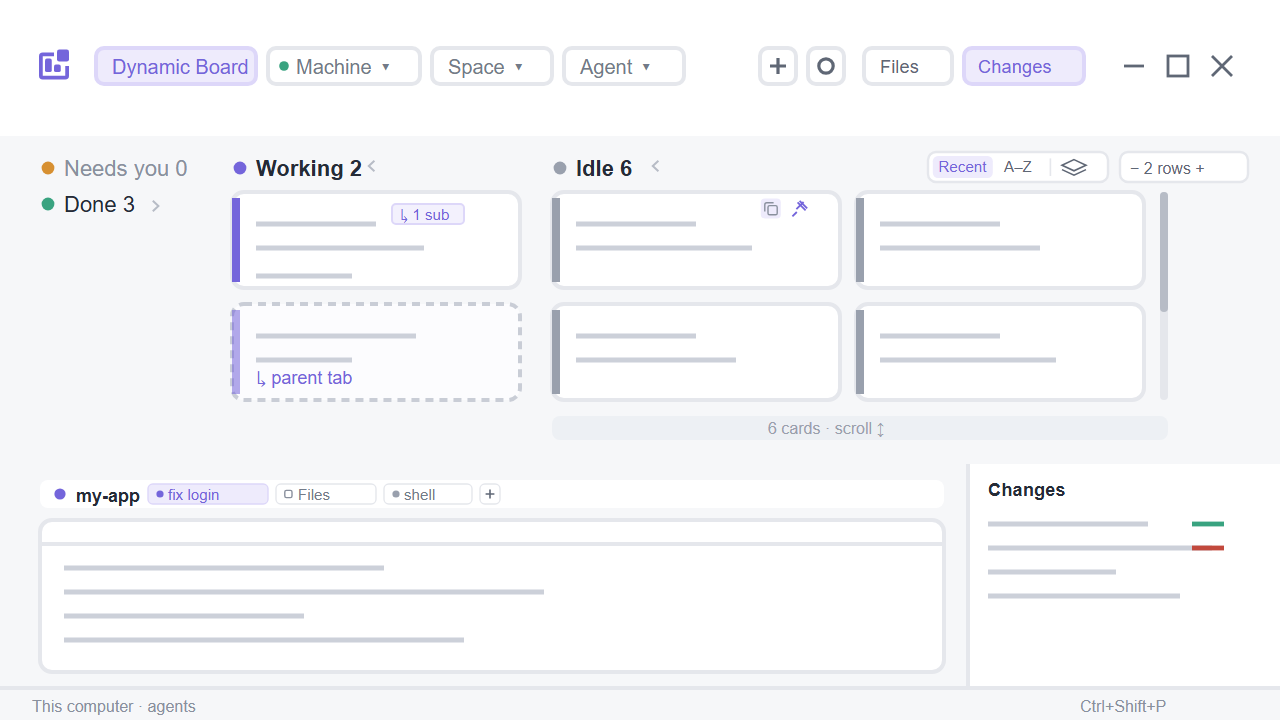
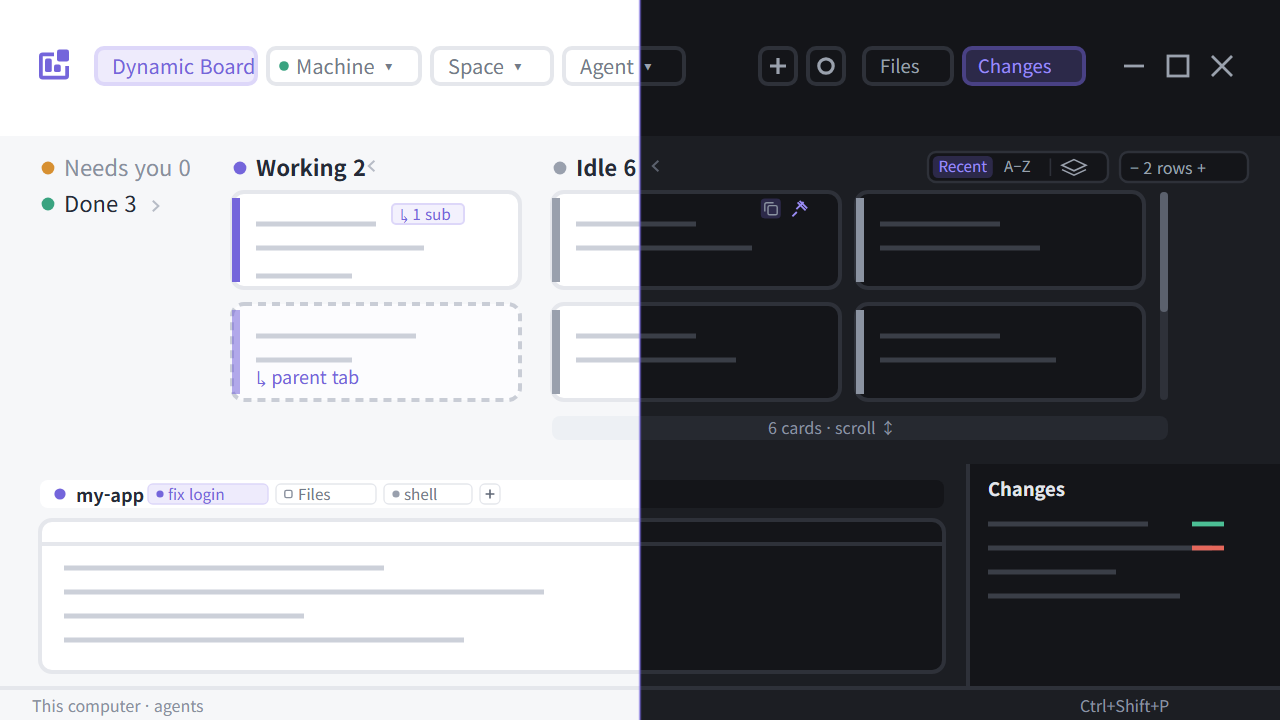
Preview: light and dark halves
preview.svg draws the board twice, paper on the left half and graphite on
the right, so Settings and the README show both appearances. preview.png
is it rendered at 1280x720.

diff --git a/RECIPE.md b/RECIPE.md
@@ -154,7 +154,7 @@ Top to bottom, the `paper` theme in light mode and `graphite` in dark mode (it f
   - tabs and spaces: `tab.new|rename|close|select`, `space.new|rename|close`;
   - layout: `layout.select|show|hide`;
   - window and app: `window.minimize|maximize|close`, `app.settings`.
-- **`mods/dynamic-board/`** also holds `logo.svg`, `copy.svg` (Lucide, `LICENSE-Lucide.txt`) and `preview.svg`.
+- **`mods/dynamic-board/`** also holds `logo.svg`, `copy.svg` (Lucide, `LICENSE-Lucide.txt`) and `preview.svg`: the board drawn twice, light (paper) on the left half and dark (graphite) on the right, each clipped to its half. `preview.png` is it at 1280×720.
 - **`mods/dynamic-board-files/`**: the Files panel above; `main.js`, `download.svg`, the clone's chevron/file/folder icons (shown until `map.json` loads) and `icons/`.
 - **Shipped pieces used**:
   - mods `changes`, `workspace-status`, `worktree`, `confirm`, `machine-add`;
